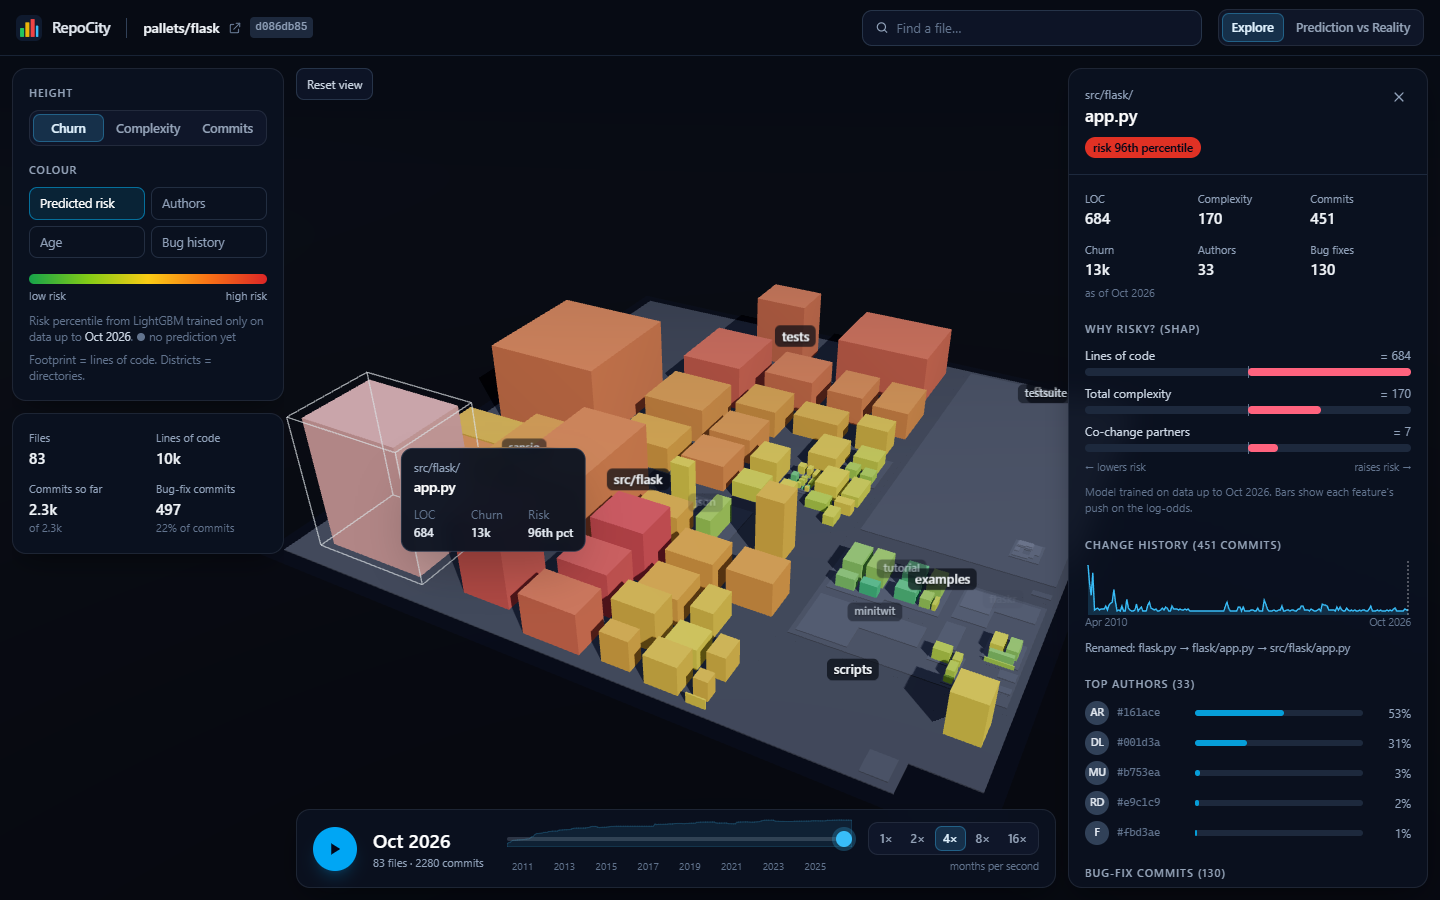
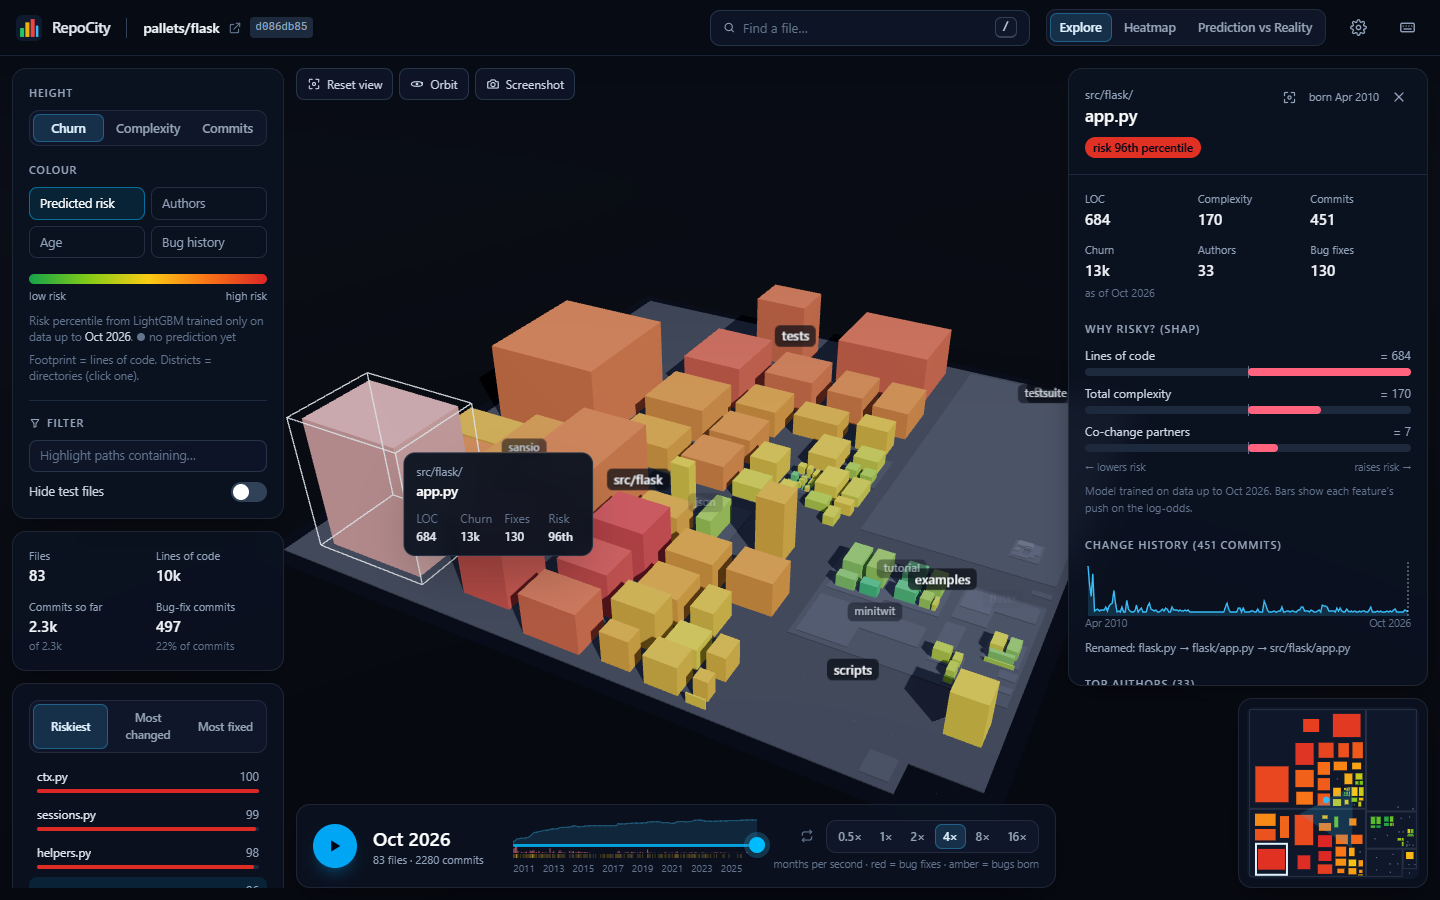
Update e2e tests for URL state and animated numbers; refresh screenshots

diff --git a/frontend/e2e/city.spec.ts b/frontend/e2e/city.spec.ts
@@ -26,6 +26,11 @@ async function openDemo(page: Page) {
   await settle(page)
 }
 
+// animated numbers expose their target value in data-value (the text may still be counting up)
+async function valueOf(page: Page, testid: string) {
+  return Number(await page.getByTestId(testid).getAttribute('data-value'))
+}
+
 async function buildingScreenPos(page: Page) {
   return page.evaluate(() => {
     const api = window.__repocity!
@@ -47,7 +52,7 @@ test('demo city: timeline, picking, search, encodings', async ({ page }) => {
   const filesAt = async (idx: number) => {
     await slider.fill(String(idx))
     await settle(page, 2200)
-    return Number(await page.getByTestId('stat-files').textContent())
+    return valueOf(page, 'stat-files')
   }
   const early = await filesAt(Math.round(max * 0.1))
   await expect(page.getByTestId('timeline-date')).not.toHaveText('')
@@ -117,10 +122,10 @@ test('prediction vs reality: reveal and score card match the backend', async ({ 
   await shot(page, '11-pvr-revealed')
 
   // the numbers shown must be the backend's evaluation numbers
-  const id = decodeURIComponent(new URL(page.url()).hash.split('/')[2])
+  const id = decodeURIComponent(new URL(page.url()).hash.split('?')[0].split('/')[2])
   const pred = await (await request.get(`/api/analyses/${id}/predictions?cutoff=${cutoff}`)).json()
   const k = 20
-  const hits = Number(await page.getByTestId('hits-value').textContent())
+  const hits = await valueOf(page, 'hits-value')
   expect(hits).toBeCloseTo(pred.metrics[pred.model].p_at_20 * k, 6)
   const recall = (await page.getByTestId('card-model-recall').textContent())!.replace('%', '')
   expect(Number(recall)).toBe(Math.round(pred.metrics[pred.model].recall_20loc * 100))
@@ -129,7 +134,8 @@ test('prediction vs reality: reveal and score card match the backend', async ({ 
 
   // k = 10 uses the same ranking -> equals backend precision@10
   await page.getByTestId('pvr-k-10').click()
-  const hits10 = Number(await page.getByTestId('hits-value').textContent())
+  await expect(page.getByTestId('hits-value')).toHaveAttribute('data-value', String(Math.round(pred.metrics[pred.model].p_at_10 * 10)))
+  const hits10 = await valueOf(page, 'hits-value')
   expect(hits10).toBeCloseTo(pred.metrics[pred.model].p_at_10 * 10, 6)
 
   // the "evaluation cutoff" list matches the backend's E1 cutoffs
